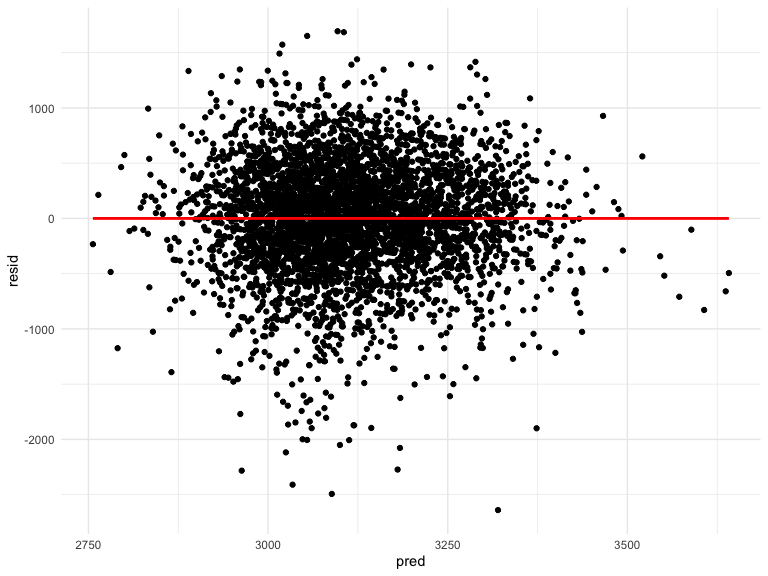
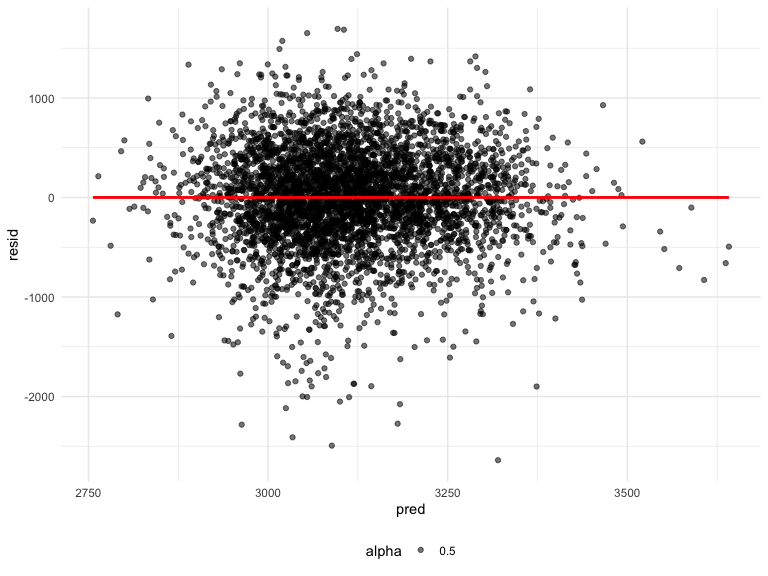
complete question 2

diff --git a/p8105_hw6_pw2551.md b/p8105_hw6_pw2551.md
@@ -9,6 +9,7 @@ Import the libraries
 library(tidyverse)
 library(viridis)
 library(modelr)
+library(patchwork)
 ```
 
 ## Problem 1
@@ -89,7 +90,7 @@ birth_weight_df %>%
   modelr::add_residuals(my_model_fit) %>%
   modelr::add_predictions(my_model_fit) %>% 
   ggplot(aes(x = pred, y = resid))+
-  geom_point()+
+  geom_point(aes(alpha = 0.5))+
   geom_smooth(se = FALSE, method = lm, color = "red")
 ```
 
@@ -193,22 +194,85 @@ weather_df =
   select(name, id, everything())
 ```
 
-``` r
-set.seed(1)  # first, set the seed
+Set the seed to ensure I can get the same results each time I ran my
+code
 
-weather_df %>% 
+``` r
+set.seed(1) 
+```
+
+### R-squared
+
+``` r
+r_squared_results = 
+  weather_df %>% 
+  bootstrap(n = 5000, id = "strap_number") %>% 
+  mutate(
+    models = map(.x = strap, ~lm(tmax~tmin, data = .x)),
+    results = map(models, broom::glance)
+  ) %>% 
+  select(-models, -strap) %>% 
+  unnest(results) %>% 
+  janitor::clean_names()  # the variable names are not that cleaned
+r_squared_results %>% 
+  summarize(
+    ci_lower = quantile(r_squared, 0.025),
+    ci_upper = quantile(r_squared, 0.975)
+  )
+```
+
+    ## # A tibble: 1 × 2
+    ##   ci_lower ci_upper
+    ##      <dbl>    <dbl>
+    ## 1    0.894    0.927
+
+#### log(beta_0 \* beta_1)
+
+``` r
+log_beta_results = 
+  weather_df %>% 
   bootstrap(n = 5000, id = "strap_number") %>% 
   mutate(
     models = map(.x = strap, ~lm(tmax~tmin, data = .x)),
     results = map(models, broom::tidy)
   ) %>% 
-  select(results) %>% 
+  select(-models, -strap) %>% 
   unnest(results) %>% 
-  filter(term == "tmin") %>% 
-  ggplot(aes(x = estimate))
+  select(strap_number, term, estimate) %>% 
+  pivot_wider(names_from = term, values_from = estimate) %>% 
+  janitor::clean_names() %>% 
+  mutate(log_beta_zo = log(intercept*tmin))
+
+log_beta_results %>% 
+  summarize(
+    ci_lower = quantile(log_beta_zo, 0.025),
+    ci_upper = quantile(log_beta_zo, 0.975)
+  )
 ```
 
-<img src="p8105_hw6_pw2551_files/figure-gfm/unnamed-chunk-11-1.png" width="90%" />
+    ## # A tibble: 1 × 2
+    ##   ci_lower ci_upper
+    ##      <dbl>    <dbl>
+    ## 1     1.96     2.06
+
+#### Plots
+
+``` r
+# r squared
+r_squared_results %>% 
+  ggplot(aes(x = r_squared))+  # plot the estimate
+  geom_density()
+```
+
+<img src="p8105_hw6_pw2551_files/figure-gfm/unnamed-chunk-14-1.png" width="90%" />
+
+``` r
+log_beta_results %>% 
+  ggplot(aes(x = log_beta_zo))+  # plot the estimate
+  geom_density() 
+```
+
+<img src="p8105_hw6_pw2551_files/figure-gfm/unnamed-chunk-15-1.png" width="90%" />
 
 ## Reference
 

diff --git a/README.md b/README.md
@@ -1,1 +1,2 @@
 # p8105_hw6_pw2551
+This is homework 6 for P8105 by Paula (pw2551)
